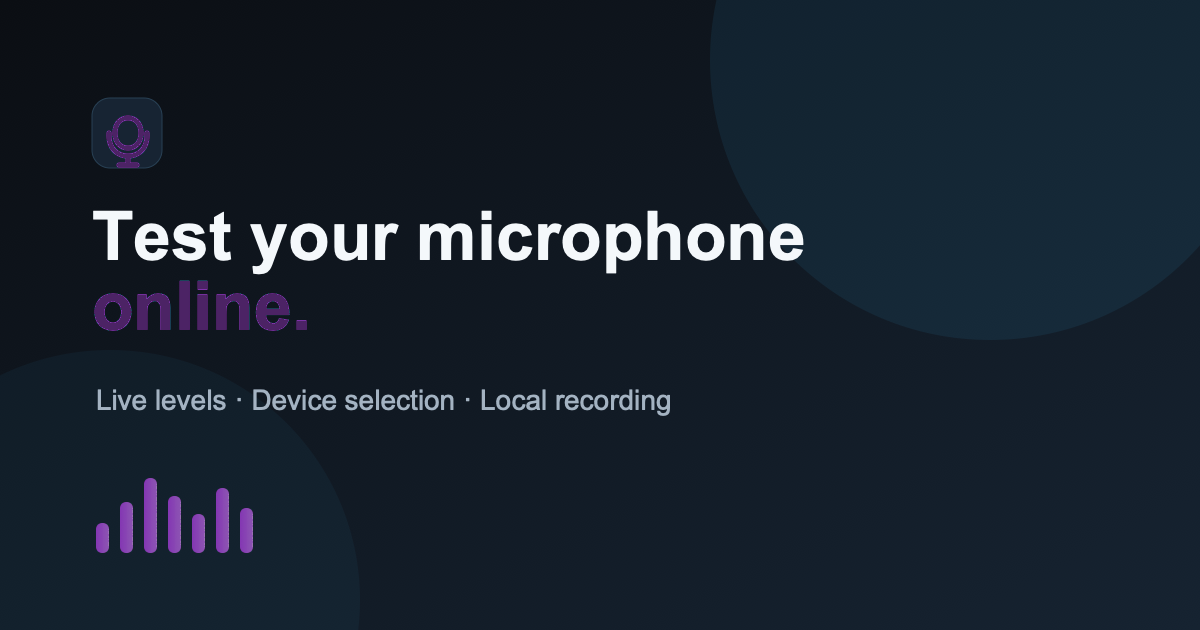
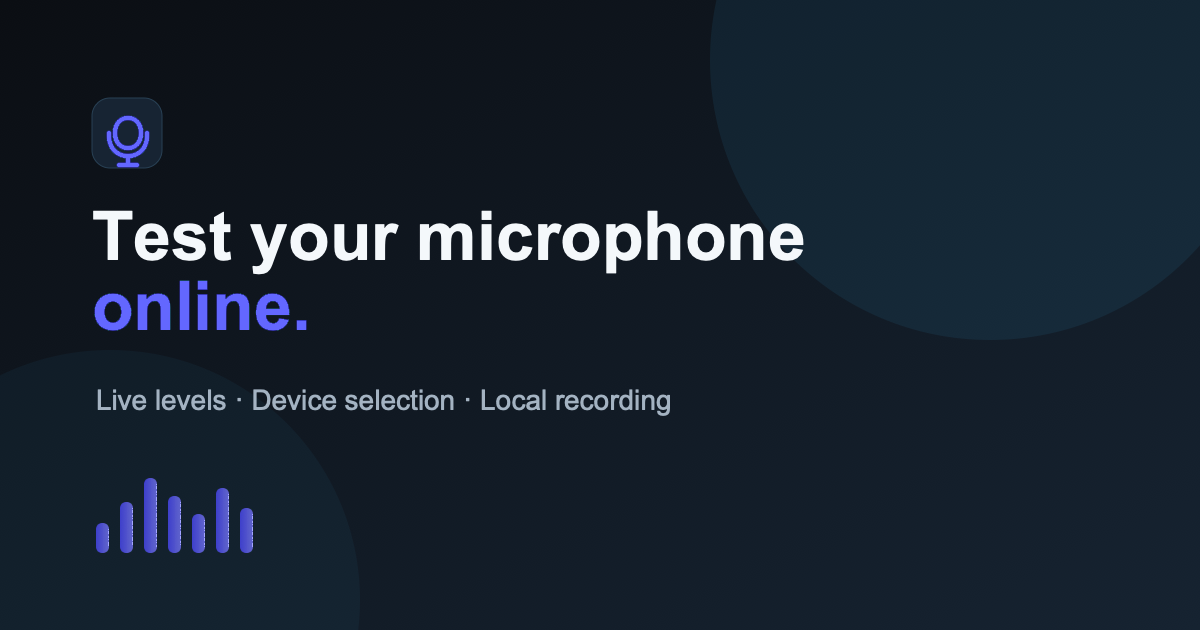
Update branding to indigo accent

Changed region(s): [[0.0617, 0.4524, 0.2775, 0.5429], [0.0617, 0.754, 0.2158, 0.8746], [0.0925, 0.181, 0.1233, 0.2714]]

diff --git a/styles.css b/styles.css
@@ -15,14 +15,14 @@
   --scale-muted: #2b2b2e;
   --header-bg: rgba(17,17,17,.92);
   --footer-bg: #101012;
-  --button-text: #ffffff;
-  --button-muted: rgba(255,255,255,.86);
-  --button-border: rgba(255,255,255,.5);
+  --button-text: #000000;
+  --button-muted: rgba(0,0,0,.78);
+  --button-border: rgba(0,0,0,.35);
   --error-text: #fda4af;
   --error-bg: rgba(244,63,94,.12);
   --error-border: rgba(244,63,94,.35);
-  --accent: #4C2365;
-  --accent-hover: #3A1B4D;
+  --accent: #6367FF;
+  --accent-hover: #5054D6;
   --radius: 16px;
   --max: 1120px;
   --font: ui-sans-serif, system-ui, -apple-system, "Segoe UI", Roboto, Inter, Arial, sans-serif;
@@ -44,9 +44,9 @@ html[data-theme="light"] {
   --scale-muted: #d9dee7;
   --header-bg: rgba(247,248,250,.92);
   --footer-bg: #e9edf2;
-  --button-text: #ffffff;
-  --button-muted: rgba(255,255,255,.86);
-  --button-border: rgba(255,255,255,.5);
+  --button-text: #000000;
+  --button-muted: rgba(0,0,0,.78);
+  --button-border: rgba(0,0,0,.35);
   --error-text: #be123c;
   --error-bg: rgba(244,63,94,.08);
   --error-border: rgba(225,29,72,.25);
@@ -174,7 +174,7 @@ button, select, audio { font: inherit; }
 .promo-section { padding-top: 0; }
 .promo-grid { display: grid; grid-template-columns: repeat(2, 1fr); gap: 20px; }
 .promo-card { display: flex; gap: 16px; background: var(--card); border: 1px solid var(--border); border-radius: var(--radius); padding: 26px; }
-.promo-icon { width: 44px; height: 44px; border-radius: 50%; background: rgba(76,35,101,.14); color: var(--accent); display: inline-flex; align-items: center; justify-content: center; font-size: 20px; flex: 0 0 auto; }
+.promo-icon { width: 44px; height: 44px; border-radius: 50%; background: rgba(99,103,255,.14); color: var(--accent); display: inline-flex; align-items: center; justify-content: center; font-size: 20px; flex: 0 0 auto; }
 .promo-card h3 { margin: 0 0 8px; font-size: 20px; }
 .promo-card p { margin: 0 0 12px; color: var(--muted); }
 .text-link { color: var(--muted-2); font-weight: 600; }
